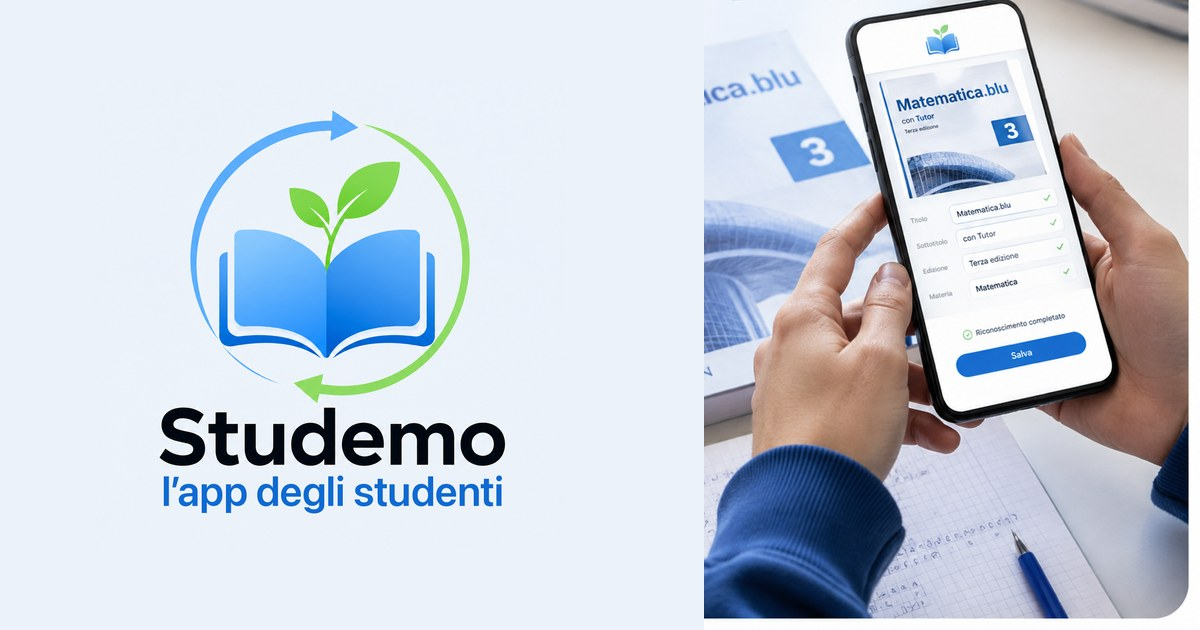
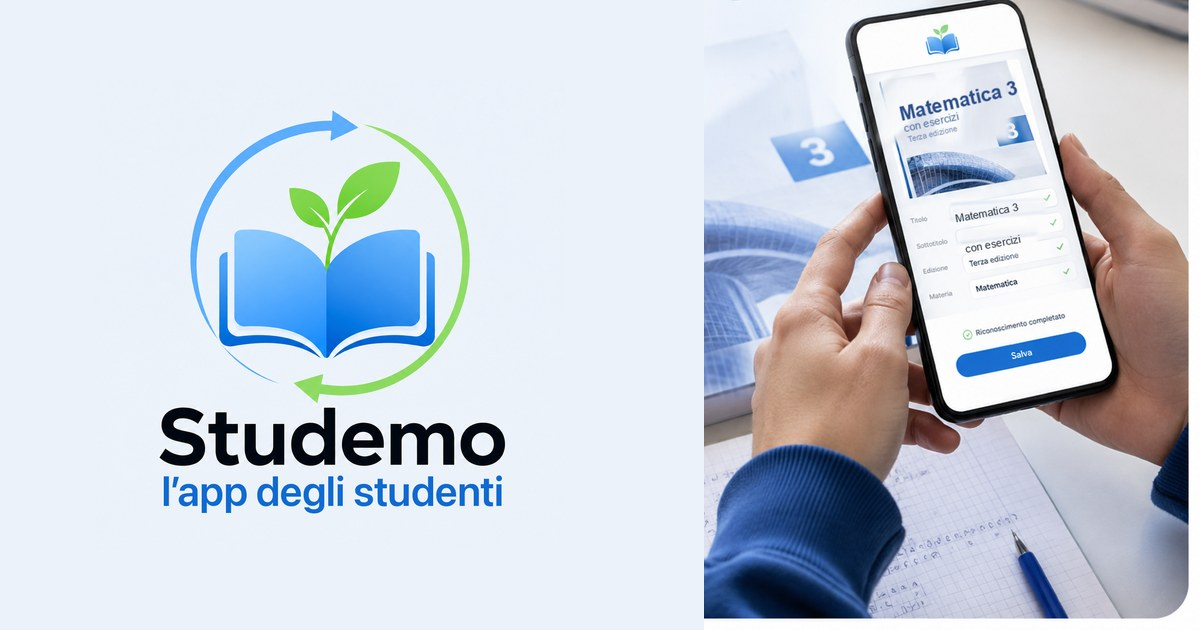
La visione in apertura, e copertine senza marchi di editori

diff --git a/index.html b/index.html
@@ -482,7 +482,7 @@
     <div class="scena">
       <div class="dentro-scena sale">
       <div class="cornice">
-        <img src="img/eroe-telefono.webp" alt="Uno studente inquadra la copertina di Matematica.blu e l'app compila da sola titolo, autore ed edizione" width="720" height="900" fetchpriority="high">
+        <img src="img/eroe-telefono.webp" alt="Uno studente inquadra la copertina di un libro di matematica e l'app compila da sola titolo, sottotitolo ed edizione" width="720" height="900" fetchpriority="high">
       </div>
       <div class="etichetta uno"><span class="tondo">✓</span> Si compila da sola</div>
       <div class="etichetta due"><span class="tondo">€</span> <span class="prezzo">12 €</span> il tuo prezzo</div>
